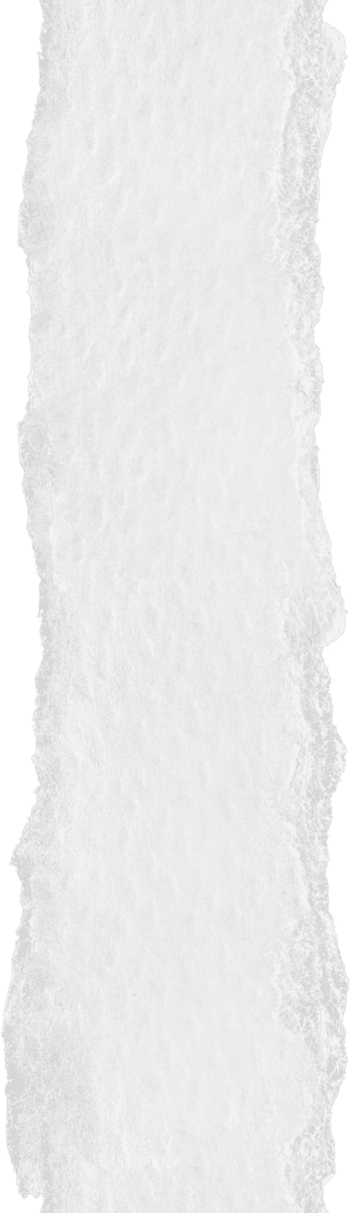
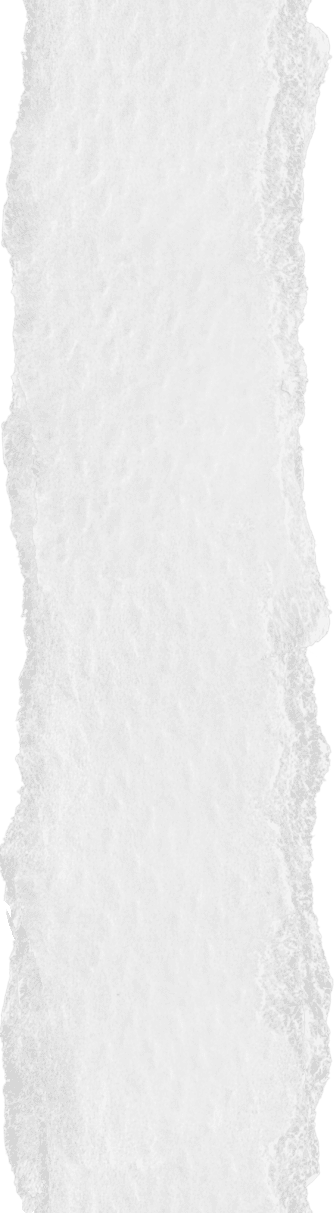
start on quiz thing

Changed region(s): [[0.0, 0.0, 0.1198, 0.7931], [0.0898, 0.9761, 0.1198, 1.0]]

diff --git a/public/interests/orthography.html b/public/interests/orthography.html
@@ -25,7 +25,7 @@
 	<main>
 	
 		<div class="content-panels-no-right-panel">
-			<section class="side ruled-paper-background">
+			<section class="side">
 
 				<DYNAMIC-SIDE-BAR/>
 				
@@ -39,8 +39,8 @@
 
 			<section class="centre ruled-paper-background">
 				<h1 class="title">Orthography</h1>
-				<p>Orthography is the set of rules that describes how a language is <i>supposed</i> to be written. I speak New Zealand English with a slightly stronger British influence than typical for a regular kiwi.</p>
-				<p>Most of my findings are naturally gathered by just talking to people from other parts of the world. Throughout this page you will find mini polls where you can contribute your country, and how you use the word/phrase which is being discussed.</p>
+				<p>Orthography is the set of rules that describes how a language is <i>supposed</i> to be written. This will also speak about grammar quite a bit too.</p>
+				<p>I speak New Zealand English with a slightly stronger British influence than typical for a regular kiwi. Most of my findings are naturally gathered by just talking to people from other parts of the world.</p>
 				<p>
 					I first developed an interest for orthography somewhere around 2024. During this time, I was speaking to a lot of my online friends. Often they would point out specific words that they had never heard of before, but were normal for me. This is when I realised that not all versions of English were the same. Around this time I also figured out that I had an accent, which started my interest in
 					<span class="tooltip">
@@ -51,6 +51,47 @@
 					</span>
 				</p>
 				<p>"Heaps" was the first word that I remember learning to be nonstandard. I use this word a lot, so it came as a massive shock to me that no one else used it with the frequency that Kiwis and Aussies use it.</p>
+
+				<p>In terms of grammar everyone seems to stay largely the same, except for Canada and America. Americans actively tried to distance themselves from British English, and these choices spread into Canada since they're neighbours</p>
+
+				<div class="word-section">
+					<h2>
+						<span class="tooltip">
+							Which do you typically use?
+							<div class="tooltip-text">
+								This is usually found on a car
+							</div>
+						</span>
+					</h2>
+
+					<div class="options">
+						<button>Tire</button>
+						<button>Tyre</button>
+					</div>
+					<br>
+					<div class="location">
+						<!-- todo: tooltip that says just select whatevers closest/biggest -->
+						<p class="no-bottom">I am from:</p>
+						<select name="location" id="locationInput">
+							<option value="nothingSelected">Area</option>
+							<option value="auckland">Auckland</option>
+							<option value="auckland">Hamilton</option>
+							<option value="auckland">Wellington</option>
+							<option value="auckland">Christchurch</option>
+							<option value="auckland">Dunedin</option>
+							<option value="auckland">Queenstown</option>
+						</select>
+						<select name="country" id="countryInput">
+							<option value="nothingSelected">Country</option>
+							<option value="nz">New Zealand</option>
+							<option value="nz">Australia</option>
+							<option value="nz">Britain</option>
+							<option value="auckland">America</option>
+							<option value="auckland">Canada</option>
+						</select>
+					</div>
+				</div>
+
 			</section>
 
 		</div>

diff --git a/public/style/orthography.css b/public/style/orthography.css
@@ -11,21 +11,54 @@ body {
   background-position: 0 -28px;
 }
 
-p {
+p, a, button, h2, select, option {
   font-family: "Indie Flower", cursive;
+}
+
+p {
   font-size: 24px;
   line-height: 30px;
   margin-bottom: 30px;
   padding: 0;
+  text-align: justify;
 }
 
 .side {
-  background-image: url("/image/backgrounds/ripped-paper.png");
-  background-repeat: repeat-y;
-  background-size: contain;
+  background-image: url("/image/backgrounds/ripped-paper.png"), linear-gradient(to right, transparent 50%, #faf6f2 50%);
+  background-repeat: repeat-y, no-repeat;
+  background-size: 100% auto, 100% 100%;
+  background-position: center, center;
 }
 
-.only-show-right-side {
-  -webkit-mask-image: linear-gradient(to right, transparent 50%, black 50%);
-          mask-image: linear-gradient(to right, transparent 50%, black 50%);
+.word-section {
+  background-image: url("/image/backgrounds/ripped-paper-square.png");
+  background-repeat: no-repeat;
+  background-size: 100% 100%;
+  padding-top: 2rem;
+  padding-bottom: 4rem;
+  text-align: center;
+}
+.word-section p {
+  text-align: center;
+}
+.word-section button {
+  width: 60%;
+  background-color: transparent;
+  border: none;
+  font-size: 2rem;
+  padding: 10px;
+  background-image: url("/image/buttons/hand-drawn-1.png");
+  background-repeat: no-repeat;
+  background-size: 100% 100%;
+}
+.word-section button:hover {
+  cursor: pointer;
+  scale: 1.01;
+}
+.word-section option, .word-section select {
+  font-size: 1rem;
+}
+.word-section select {
+  background-color: transparent;
+  border: none;
 }/*# sourceMappingURL=orthography.css.map */

diff --git a/public/style/orthography.scss b/public/style/orthography.scss
@@ -22,21 +22,69 @@ $line-gap: 30px;
 	background-position: 0 -28px;
 }
 
-p {
+p, a, button, h2, select, option {
 	font-family: "Indie Flower", cursive;
+}
+
+p {
 	font-size: 24px;
 	line-height: $line-gap;
 	
 	margin-bottom: $line-gap;
 	padding: 0;
+
+	text-align: justify;
 }
 
 .side {
-	background-image: url("/image/backgrounds/ripped-paper.png");
-	background-repeat: repeat-y;
-	background-size: contain;
+	// todo: use the -shadow version of the paper
+	background-image: 
+		url("/image/backgrounds/ripped-paper.png"),
+		linear-gradient(to right, transparent 50%, #faf6f2 50%);
+
+	background-repeat: repeat-y, no-repeat;
+	background-size: 100% auto, 100% 100%;
+	background-position: center, center;
 }
 
-.only-show-right-side {
-	mask-image: linear-gradient(to right, transparent 50%, black 50%);
+
+.word-section {
+	background-image: url("/image/backgrounds/ripped-paper-square.png");
+	background-repeat: no-repeat;
+	background-size: 100% 100%;
+
+	padding-top: 2rem;
+	padding-bottom: 4rem;
+
+	text-align: center;
+	p { text-align: center; }
+
+	button {
+		width: 60%;
+		background-color: transparent;
+		border: none;
+
+		font-size: 2rem;
+		padding: 10px;
+
+		background-image: url("/image/buttons/hand-drawn-1.png");
+		background-repeat: no-repeat;
+		background-size: 100% 100%;
+
+		&:hover {
+			cursor: pointer;
+			scale: 1.01;
+		}
+	}
+
+	option, select {
+		font-size: 1rem;
+	}
+
+	select {
+		background-color: transparent;
+		border: none;
+	}
+
+	// filter: drop-shadow(10px 10px rgba(0, 0, 0, 0.1));
 }
